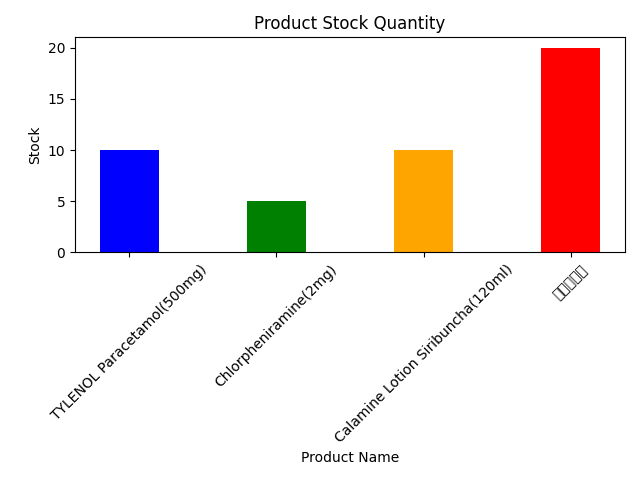
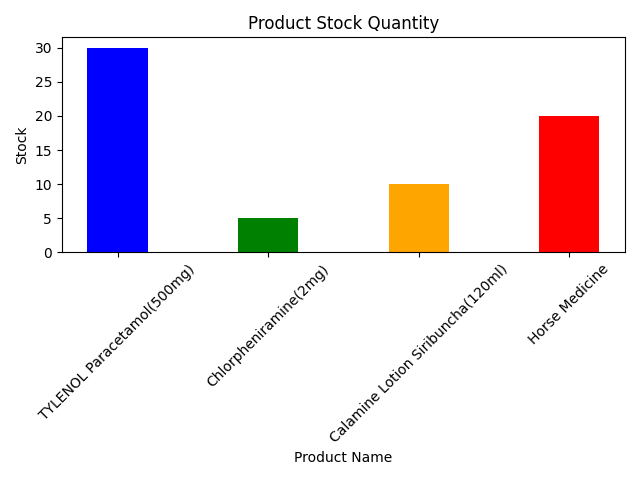
update barchart but not have top 3 seller

diff --git a/templates/admin.html b/templates/admin.html
@@ -27,6 +27,7 @@
     <link rel="stylesheet" href="{{ url_for('static', filename='css/solid.css') }}" rel="stylesheet">
     <link rel="stylesheet" href="https://cdnjs.cloudflare.com/ajax/libs/font-awesome/4.7.0/css/font-awesome.min.css">
     <script src="https://cdn.plot.ly/plotly-latest.min.js"></script>
+    
 
     <style>
         body {
@@ -201,12 +202,17 @@
         </div>
     </div>
     <div class="container">
-    <img src="{{ url_for('static', filename='barchart.png') }}" alt="Product Stock Chart">
+        <img src="{{ url_for('static', filename='barchart.png') }}" alt="Product Stock Chart">
   </div>
+   <div class="container">
+    <img src="{{ url_for('static', filename='donutchart.png') }}" alt="Top 3 seller">
+   </div>
+  <div class="container">
+    <h2>Income:</h2>
+    <p>{{ combined_total_price }}</p>
+  </div>
+   
     
-    
-    
-  
 </body>
 
 </html>

diff --git a/app.py b/app.py
@@ -16,7 +16,8 @@ import re
 import matplotlib.pyplot as plt
 import io
 import base64
-
+import numpy as np
+import pandas as pd
 
 class Config:
     SCHEDULER_API_ENABLED = True
@@ -681,6 +682,7 @@ def delete(product_id):
     return redirect(url_for('products'))
 
 
+
 @app.route('/admin')
 def admin():
     if 'admin' not in session:
@@ -692,50 +694,53 @@ def admin():
     curr = conn.cursor(pymysql.cursors.DictCursor)
     cur = conn.cursor(pymysql.cursors.DictCursor)
     graph = conn.cursor(pymysql.cursors.DictCursor)
+    cone = conn.cursor(pymysql.cursors.DictCursor)
     graph.execute("SELECT product_name, stock FROM products")
     cursor.execute("SELECT * FROM products")
     curr.execute(
         "SELECT * FROM users_detail WHERE user_id=%s", (user_id,))
     cur.execute(
         "SELECT transactions.transaction_id,cart_items.cart_item_id, cart_items.cart_id, carts.user_id, products.product_id, products.image, products.product_name, cart_items.quantity, products.price, carts.total_price, carts.total_quantity FROM products LEFT JOIN cart_items ON products.product_id=cart_items.product_id  LEFT JOIN carts ON cart_items.cart_id=carts.cart_id LEFT JOIN transactions ON transactions.cart_id=carts.cart_id WHERE cart_items.quantity > 0 AND carts.user_id=%s AND transactions.status != 'success'", (user_id,))
-    rows = cursor.fetchall()
+    cone.execute("SELECT SUM(carts.total_price) as sum FROM carts LEFT JOIN transactions ON carts.cart_id = transactions.cart_id WHERE status='pending'")
+    result = cone.fetchone()
+    combined_total_price = result['sum']
+    rows = cursor.fetchall()    
     graphs = graph.fetchall()
     user = curr.fetchone()
     Cart_list = cur.fetchall()
-    curr.close()
-    cur.close()
-    cursor.close()
-    conn.close()
+    
     if len(Cart_list) > 0:
         session['Shoppingcart'] = Cart_list
         session['cart_id'] = session.get('Shoppingcart')[0].get('cart_id')
     product_name = [row['product_name'] for row in graphs]
     stock = [row['stock'] for row in graphs]
-    print(product_name)
-    print(stock)
-    # Define custom colors for the bars
-    colors = ['blue', 'green', 'orange', 'red']
 
-    # Create a bar chart using matplotlib with custom colors
-    fig, ax = plt.subplots()
-    x = np.arange(len(product_name))
-    width = 0.4
+    
 
-    # Plot each bar with a different color
-    for i in range(len(product_name)):
-        ax.bar(x[i], stock[i], width, color=colors[i])
+    # Convert the SQL results to a pandas DataFrame
+    df = pd.DataFrame(graphs, columns=['product_name', 'stock'])
+ 
+    # Plotting the donut graph
+    plt.pie(df['stock'], labels=df['product_name'], autopct='%1.1f%%', pctdistance=0.85)
+    center_circle = plt.Circle((0, 0), 0.70, fc='white')
+    fig = plt.gcf()
+    fig.gca().add_artist(center_circle)
+    plt.axis('equal')  # Equal aspect ratio ensures that the pie is drawn as a circle.
+    plt.title('Top 3 Products by Total Quantity')
 
-    ax.set_xticks(x)
-    ax.set_xticklabels(product_name, rotation=45)
-    ax.set_xlabel('Product Name')
-    ax.set_ylabel('Stock')
-    ax.set_title('Product Stock Quantity')
-    plt.tight_layout()
-
-    # Save the chart to a file
-    chart_path = 'static/barchart.png'
+    # Save the graph as an image file
+    chart_path = 'static/donutchart.png'
     plt.savefig(chart_path)
-    return render_template('admin.html', user=user, Cart_list=Cart_list, user_id=user_id, product=rows, products = graphs)
+    plt.close(fig)  
+    # Close the cursor and database connection
+    cone.close()
+    curr.close()
+    cur.close()
+    cursor.close()
+    conn.close()
+
+    print("combined_total_price", combined_total_price)
+    return render_template('admin.html', user=user, Cart_list=Cart_list, user_id=user_id, product=rows, products=graphs, combined_total_price=combined_total_price, )
 
     # ... existing code ...
 

diff --git a/graph.py b/graph.py
@@ -3,8 +3,9 @@ from flask import Flask, render_template
 from router import *
 import numpy as np
 import matplotlib.pyplot as plt
-
-
+from io import BytesIO
+import base64
+import pandas as pd
 
 # Define a route to render the HTML template and retrieve product information
 @app.route('/graph')
@@ -24,32 +25,40 @@ def product_list():
 
     product_name = [row[0] for row in rows]
     stock = [row[1] for row in rows]
-    print(product_name)
-    print(stock)
+
     # Define custom colors for the bars
     colors = ['blue', 'green', 'orange', 'red']
 
     # Create a bar chart using matplotlib with custom colors
-    fig, ax = plt.subplots()
+    fig1, ax1 = plt.subplots()  # Create a new figure for the bar chart
     x = np.arange(len(product_name))
     width = 0.4
 
     # Plot each bar with a different color
     for i in range(len(product_name)):
-        ax.bar(x[i], stock[i], width, color=colors[i])
+        ax1.bar(x[i], stock[i], width, color=colors[i])
 
-    ax.set_xticks(x)
-    ax.set_xticklabels(product_name, rotation=45)
-    ax.set_xlabel('Product Name')
-    ax.set_ylabel('Stock')
-    ax.set_title('Product Stock Quantity')
+    ax1.set_xticks(x)
+    ax1.set_xticklabels(product_name, rotation=45)
+    ax1.set_xlabel('Product Name')
+    ax1.set_ylabel('Stock')
+    ax1.set_title('Product Stock Quantity')
     plt.tight_layout()
 
-    # Save the chart to a file
+    # Save the bar chart to a file
     chart_path = 'static/barchart.png'
     plt.savefig(chart_path)
+    plt.close(fig1)  # Close the bar chart figure
 
-    # Render the HTML template and pass the product information to it
-    return render_template('admin.html', products=rows)
+    # Establish a connection to your SQL database
+    conn = mysql.connect()
+    cursor = conn.cursor(pymysql.cursors.DictCursor)
+
+    # Execute a query to get the top 3 best-selling items
+
+   
+    
+
+    return render_template('admin.html', products=rows,)
 
 
